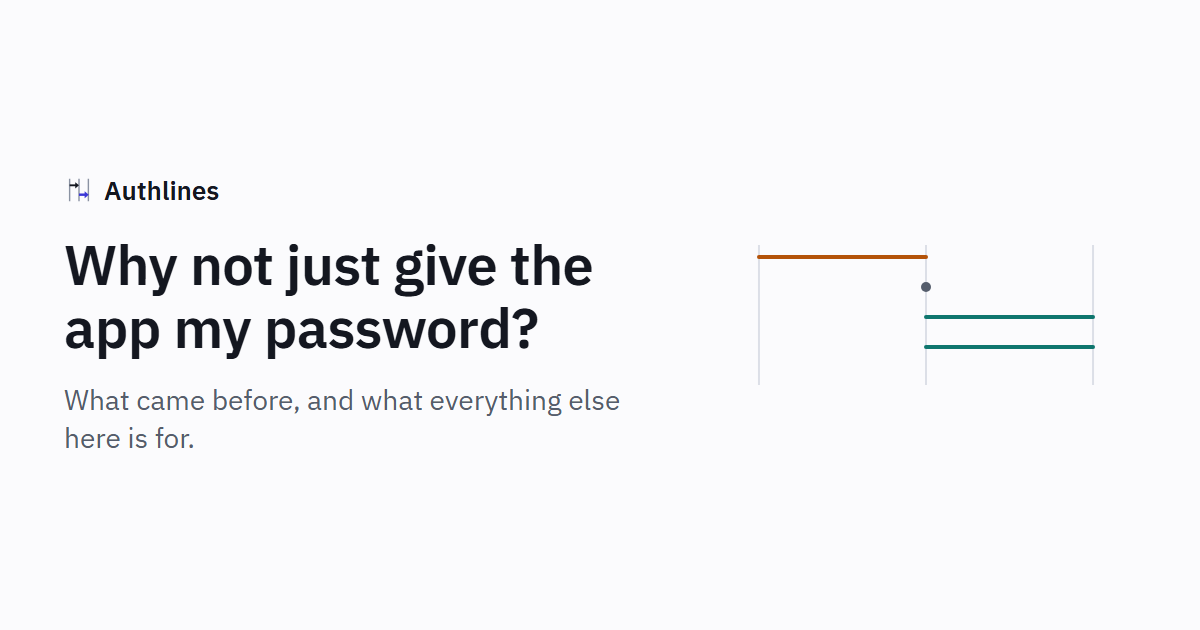
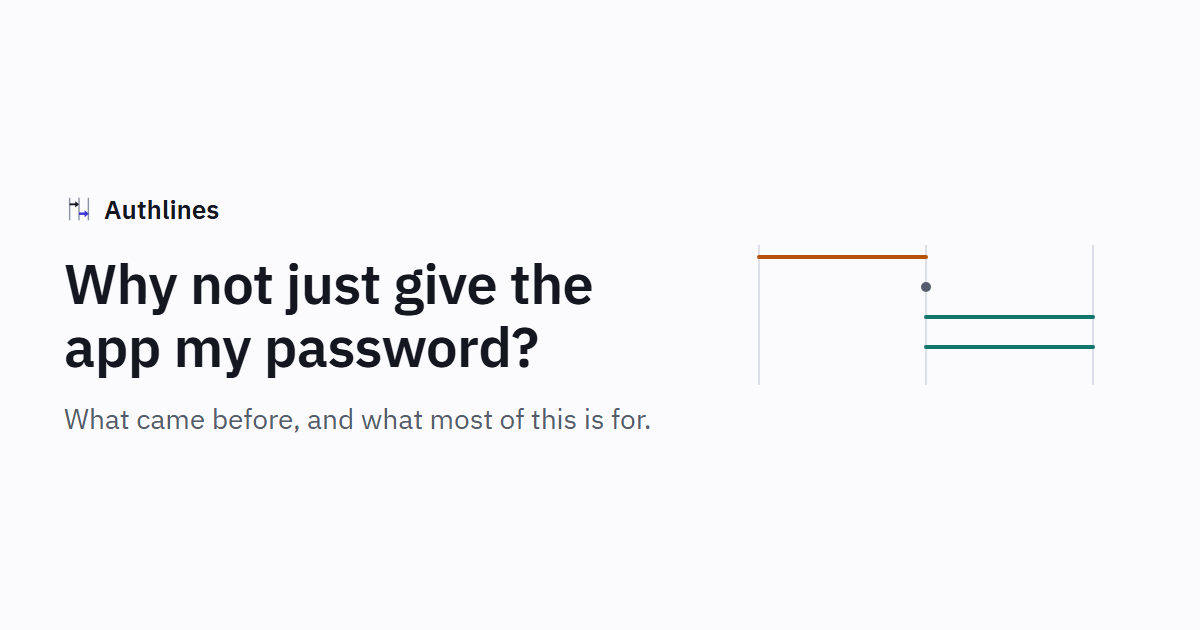
fix: what a claims audit by an AI agent found in the way in
Most serious: on the old way the password's and the app's own explanations still said
the app never sees it. A party now says what it is on that diagram, with a test, and a
deliberate breakage to prove the test.

The first screen no longer says how a button works, or that OAuth is all of it. The
demo app keeps the password, as the step says. RFC 7617 is described as it reads, and
the default flow's own use of Basic is said. "Everything else here" was false of a flow
with no user.

Changed region(s): [[0.0308, 0.3921, 0.555, 0.7238], [0.0617, 0.2714, 0.185, 0.3619]]

diff --git a/src/lib/flow/old-way.ts b/src/lib/flow/old-way.ts
@@ -19,9 +19,9 @@ const flowSteps: readonly StepDef[] = [
 		plain: 'The user gives the app their password',
 		label: 'POST /login',
 		concept:
-			'The app wants something from another service, such as your calendar. So it asks for the username and password of your account there, on a form of its own, and you have to trust it with them.',
+			'The app wants something from another service, drawn here as the API, such as your calendar. So it asks for the username and password of your account there, on a form of its own, and you have to trust it with them.',
 		inPractice:
-			'Do not build this for someone else’s account. It is here to show what the rest of this is for.',
+			'Do not build this for an account at another service. It is here to show what most of this is for.',
 		fields: [{ name: 'username and password', place: 'body', artifact: 'password' }]
 	},
 	{
@@ -54,7 +54,7 @@ const flowSteps: readonly StepDef[] = [
 			{
 				source: 'rfc7617',
 				section: '2',
-				why: 'Section 2 is this scheme: the username and password joined with a colon, in Base64, which anyone can read back.'
+				why: 'Section 2 is this scheme: the username and password joined with a colon, in Base64. Section 4 calls that cleartext.'
 			},
 			{
 				source: 'rfc6749',
@@ -109,7 +109,9 @@ function withTheOldWay(
 	steps: readonly StepDef[],
 	part: PartDef,
 	intro: string,
-	gone: readonly string[]
+	gone: readonly string[],
+	/** What a party is here, where what it is otherwise would deny what is on the diagram. */
+	concepts: Readonly<Record<string, string>>
 ): DiagramDef {
 	return {
 		...flow,
@@ -117,6 +119,12 @@ function withTheOldWay(
 		lifelines: flow.lifelines.map((line) => ({
 			...line,
 			when: gone.includes(line.id) ? unlessOldWay(line.when) : line.when,
+			concept: concepts[line.id]
+				? [
+						{ when: oldWay, text: concepts[line.id] },
+						...(typeof line.concept === 'string' ? [{ text: line.concept }] : line.concept)
+					]
+				: line.concept,
 			startsWith: line.startsWith?.map((held) => ({ ...held, when: unlessOldWay(held.when) }))
 		})),
 		parts: [part, ...flow.parts],
@@ -137,7 +145,11 @@ export const withTheOldWayInTheFlow = (flow: DiagramDef) =>
 			from: 'old-way-form'
 		},
 		'An app wants to do something for a user, such as read their calendar. Before there was anything better, it asked for the password. Press Next to follow it, one message at a time.',
-		['idp']
+		['idp'],
+		{
+			app: "The application the user wants to use. Here it is given the user's password.",
+			api: 'What the app wants to call on behalf of the user. Here it decides from the password.'
+		}
 	);
 
 export const withTheOldWayInTheSetup = (flow: DiagramDef) =>
@@ -150,5 +162,8 @@ export const withTheOldWayInTheSetup = (flow: DiagramDef) =>
 			from: 'old-way-nothing-to-set-up'
 		},
 		'With the old way there is no setup to speak of, which is part of why it was common.',
-		['idp', 'idp-admin', 'api']
+		['idp', 'idp-admin', 'api'],
+		{
+			app: 'The application. Here there is nothing to set up, because it logs in as the user.'
+		}
 	);

diff --git a/src/lib/map/way-in.ts b/src/lib/map/way-in.ts
@@ -4,7 +4,7 @@
  * once someone has seen what it is for.
  */
 export const wayIn = {
-	lead: 'You have probably clicked a button like “Log in with Google”. Here is what that kind of button saved you from, and how it works, one message at a time.',
+	lead: 'You have probably clicked a button like “Log in with Google”. A button like that can keep your password from the app. Here is why that matters, and how, one message at a time.',
 	/** The question on the map that shows the old way, which is what the screen opens with. */
 	node: 'the-old-way',
 	/** All of it can be read from here, and the API has the password too. */
@@ -14,11 +14,11 @@ export const wayIn = {
 	switch: 'Log in where your account is',
 	off: {
 		title: 'The old way: the app asks for your password',
-		says: 'It keeps your password and sends it with every call. So it can do anything you can, and if it leaks, so does your password.'
+		says: 'It keeps your password and sends it with every call. So it can do anything you can with that account, and if the app is broken into, your password goes with it.'
 	},
 	on: {
 		title: 'Now your password stays where your account is',
-		says: 'It goes there, and the app never sees it. The app gets something else instead: a token, which is good for certain things and runs out. Many buttons like “Log in with ...” are built on this, and it is called OAuth.',
+		says: 'It goes to an identity provider, which holds your account, and not to the app. The app gets a token instead, which is good for certain things and runs out. This is OAuth. Many “Log in with ...” buttons are built on it, and add a way to tell the app who you are.',
 		link: 'Follow it, one message at a time'
 	}
 } as const;

diff --git a/src/lib/flow/old-way.test.ts b/src/lib/flow/old-way.test.ts
@@ -1,0 +1,40 @@
+import { describe, expect, it } from 'vitest';
+import { authorizationCodeBase as base } from '#lib/flow/index.ts';
+import { evaluate, holdingsAt } from '#lib/flow/model.ts';
+import { defaultSettings } from '#lib/flow/settings.ts';
+import { artifacts } from '#lib/flow/vocabulary.ts';
+
+const oldWay = { ...defaultSettings, oldWay: true };
+const flow = evaluate(base.diagrams.flow, oldWay);
+const setup = evaluate(base.diagrams.setup, oldWay);
+
+// A real audit found the app's and the password's own explanations denying what was on the diagram.
+describe('the old way', () => {
+	it('has nobody saying the app never sees the password', () => {
+		const said = [...flow.lifelines, ...setup.lifelines].map(({ concept }) => concept);
+		expect(said.filter((text) => /never sees|from the token|learn about/.test(text))).toEqual([]);
+		expect(artifacts.password.explains).not.toMatch(/never/);
+	});
+
+	it('goes back to what they are otherwise, when it is off', () => {
+		const plainly = evaluate(base.diagrams.flow, defaultSettings);
+		const app = plainly.lifelines.find(({ id }) => id === 'app');
+		expect(app?.concept).toMatch(/never sees/);
+	});
+
+	it('is a handful of messages, with no identity provider', () => {
+		expect(flow.steps.map(({ id }) => id)).toEqual([
+			'old-way-form',
+			'old-way-keep',
+			'old-way-call',
+			'old-way-answer'
+		]);
+		expect(flow.lifelines.map(({ id }) => id)).not.toContain('idp');
+	});
+
+	it('leaves the password with the app and the API, and nobody has anything else', () => {
+		const held = holdingsAt(flow, 'old-way-answer');
+		expect(held.app).toEqual(['password']);
+		expect(held.api).toEqual(['password']);
+	});
+});

diff --git a/src/lib/map/tracks.ts b/src/lib/map/tracks.ts
@@ -59,10 +59,10 @@ export const mapTracks: readonly MapTrack[] = [
 				node({
 					id: 'the-old-way',
 					answer:
-						'That is how it used to work. The app kept your password and sent it with every call, so it could do anything you can, and if it leaked, so did your password.',
-					startsAtTheBeginning: 'It is only four messages, so its start is its answer.',
+						'That is how it used to work. The app kept your password and sent it with every call, so it could do anything you can with that account, and if it was broken into, your password went with it.',
+					startsAtTheBeginning: 'It is only four steps, so its start is its answer.',
 					title: 'Why not just give the app my password?',
-					summary: 'What came before, and what everything else here is for.',
+					summary: 'What came before, and what most of this is for.',
 					preset: 'the-old-way',
 					alsoAskedAs: [
 						'log in with google',
@@ -125,6 +125,7 @@ export const mapTracks: readonly MapTrack[] = [
 				}),
 				node({
 					id: 'who-logged-in',
+					alsoAskedAs: ['log in with google', 'sign in with google', 'what is openid connect for'],
 					answer:
 						'OAuth alone gives the app access, and defines no way to tell it who logged in. A token may name them, but it is meant for the API. OpenID Connect adds an ID token, made for the app to read.',
 					title: 'How does an app know who logged in?',

diff --git a/scripts/record/demo.ts b/scripts/record/demo.ts
@@ -293,6 +293,7 @@ interface Tokens {
 
 export class Demo {
 	current: Run | null = null;
+	#keptLogin = { username: '', password: '' };
 
 	/** What came before: no identity provider, only the app taking the password from a form. */
 	async theOldWay(run: Run) {
@@ -735,12 +736,17 @@ export class Demo {
 			// The old way: it takes the password, and from then on logs in as the user with it.
 			if (url.pathname === '/old-way/login') {
 				const form = new URLSearchParams(await readBody(request));
+				// It keeps it, as the step says, because it needs it for this call and every one after.
+				this.#keptLogin = {
+					username: form.get('username') ?? '',
+					password: form.get('password') ?? ''
+				};
 				const { status } = await call(
 					this.#run,
 					['old-way-call', 'old-way-answer'],
 					'GET',
 					`${API}/old-way/resource`,
-					{ authorization: passwordAuth(form.get('username') ?? '', form.get('password') ?? '') }
+					{ authorization: passwordAuth(this.#keptLogin.username, this.#keptLogin.password) }
 				);
 				response.writeHead(status === 200 ? 200 : 500, { 'content-type': 'text/plain' });
 				response.end(status === 200 ? 'Logged in' : 'Failed');

diff --git a/src/lib/sources/sources.ts b/src/lib/sources/sources.ts
@@ -49,7 +49,7 @@ export const sources: Record<SourceId, SourceDef> = {
 		title: "The 'Basic' HTTP Authentication Scheme",
 		status: 'Proposed Standard, September 2015.',
 		summary:
-			'The oldest way to log in over HTTP: the username and password, joined with a colon and Base64-encoded, sent along with the request. Base64 is not encryption, so it says this is only safe over a connection that is.',
+			'A way to send a username and password with an HTTP request, joined with a colon and Base64-encoded. Base64 is not encryption, so it calls this cleartext, and says not to protect anything sensitive with it without something like HTTPS.',
 		url: 'https://www.rfc-editor.org/rfc/rfc7617.html',
 		textFile: 'rfc7617.txt'
 	},

diff --git a/src/lib/flow/settings.ts b/src/lib/flow/settings.ts
@@ -566,7 +566,7 @@ export const settingDefs: { [K in SettingId]: DefFor<Settings[K]> } = {
 		notOnOffer: true,
 		summary:
 			'What came before: the app asks for the password, keeps it, and sends it with every call.',
-		why: 'An app that logs in as you has your password, can do anything you can, and leaks it if it is broken into. Everything else here exists so that it does not have to.',
+		why: 'An app that logs in as you has your password, can do anything you can with that account, and gives it up if it is broken into. Most of what is here exists so that it does not have to.',
 		sources: [
 			{
 				source: 'rfc6749',

diff --git a/src/lib/flow/glossary.ts b/src/lib/flow/glossary.ts
@@ -42,7 +42,7 @@ const list: readonly Term[] = [
 		name: 'HTTP Basic',
 		words: ['HTTP Basic', 'Basic auth', 'basic authentication'],
 		explains:
-			'The oldest way to log in over HTTP: the username and password go along with each request, encoded in a way anyone can read back.',
+			'A way to send a username and password with each HTTP request, encoded so anyone can read them back. At the token step, an app sends its client ID and secret the same way.',
 		at: flowAt('old-way-call', { oldWay: true })
 	},
 	{

diff --git a/src/lib/flow/vocabulary.ts b/src/lib/flow/vocabulary.ts
@@ -20,8 +20,7 @@ export const artifacts: Readonly<
 	password: {
 		label: 'password',
 		short: 'password',
-		explains:
-			'How the user proves who they are. It only ever goes to whoever does the login, and the app never sees it, which is the point of all this.'
+		explains: 'How the user proves who they are. Keeping it from the app is the point of all this.'
 	},
 	code: {
 		label: 'code',

diff --git a/docs/adr/005-payloads-are-recorded-never-invented.md b/docs/adr/005-payloads-are-recorded-never-invented.md
@@ -1,6 +1,6 @@
 # ADR-005: Payloads are recorded from a real server and never invented
 
-Every request and response the application shows, and everything `Execute` replays, was recorded from a real server that speaks the protocol. That is Keycloak for OAuth and OpenID Connect. Fitting Keycloak is a convenience and not a limit, as the maintainer decided on 2026-11-02, and the old way is recorded from the demo app and API, which take a password over HTTP Basic with no identity provider in it. When a combination of settings has no recording, the application says so and shows no payload. Do not assemble a payload from fragments or write one by hand.
+Every request and response the application shows, and everything `Execute` replays, was recorded from a real server that speaks the protocol. That is Keycloak for OAuth and OpenID Connect. Fitting Keycloak is a convenience and not a limit, as the maintainer decided on 2026-11-02, and the old way is recorded from the demo app and API, where the app takes a password from a form and the API takes it over HTTP Basic, with no identity provider in it. When a combination of settings has no recording, the application says so and shows no payload. Do not assemble a payload from fragments or write one by hand.
 
 Recordings run against a plain Keycloak container, with a client on Keycloak's defaults unless the setting under test changes it. Each recording is one real run, so the code returned in one step is the code sent in the next without any simulation. `pnpm record` makes one per named state in `static/recordings/`, with a small demo app and API driven by a headless browser, a second realm as the upstream IdP, and a proxy to capture what Keycloak sends that upstream. It also tries the things the diagram makes a claim about and writes down what happened, in `questions.json`.
 
